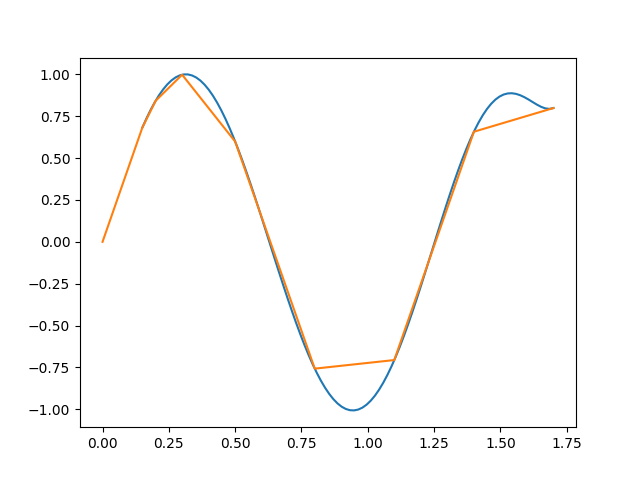
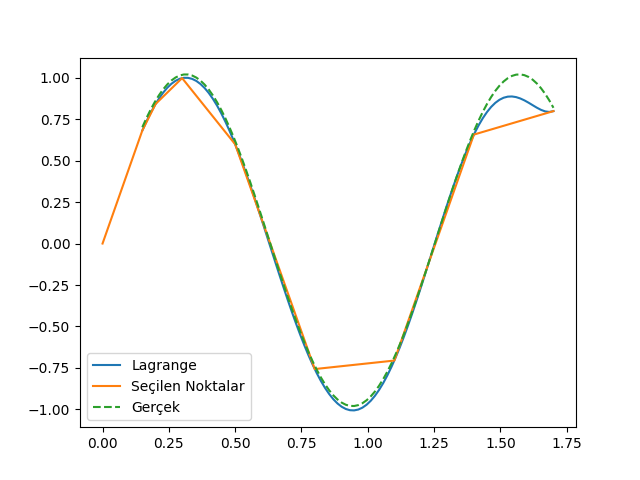
-

diff --git a/compscieng/compscieng_app20cfit1/compscieng_app20cfit1.html b/compscieng/compscieng_app20cfit1/compscieng_app20cfit1.html
@@ -175,7 +175,7 @@ edilebilir,</p>
 <p>$$
 P_m(x) =  \sum_{i=1}^{n} p_i (x) y_i
 $$</p>
-<p>Bir $x_j$ için ne elde ediyoruz?</p>
+<p>Bir $x_j$ için hesap ne diyor?</p>
 <p>$$
 P_m(x_j) = \sum _{i=1}^{n} p_i(x_j) y_i =  \sum _{i=1}^{n} \delta_{ij} y_i = y_j
 $$</p>
@@ -221,22 +221,26 @@ x[1] = 0.15; x[2] = 0.2; x[3] = 0.3; x[4] = 0.5;
 x[5] = 0.8 ; x[6] = 1.1; x[7] = 1.4; x[8] = 1.7
 for i in range(1,n+1): y[i] = np.sin(5*x[i])
 
-xx = []; yy = []
+xx = []; yy = []; real = []
 # x[1] ile x[8] arasinda esit aralikli x'ler yarat
 # daha fazla nokta olsun
 xis = np.linspace(x[1],x[-1],ni)
 for i in range(1,ni+1):
    xi = xis[i-1]
-   yi = Lagrange(x,y,n,xi) 
+   yi = Lagrange(x,y,n,xi)
    xx.append(xi)
    yy.append(yi)
-
+   real.append(np.sin(5*xi)+0.02)
 
 xx = np.array(xx)
 yy = np.array(yy)
+real = np.array(real)
 
 plt.plot(xx,yy)
 plt.plot(x,y)
+plt.plot(xx,real,'--')
+plt.legend(['Lagrange',u'Seçilen Noktalar','Gerçek'])
+
 plt.savefig('compscieng_app20cfit1_01.png')
 </code></pre>
 

diff --git a/compscieng/compscieng_app20cfit1/egri_uydurma_aradegerleme__interpolation___1.html b/compscieng/compscieng_app20cfit1/egri_uydurma_aradegerleme__interpolation___1.html
@@ -175,7 +175,7 @@ edilebilir,</p>
 <p>$$
 P_m(x) =  \sum_{i=1}^{n} p_i (x) y_i
 $$</p>
-<p>Bir $x_j$ için ne elde ediyoruz?</p>
+<p>Bir $x_j$ için hesap ne diyor?</p>
 <p>$$
 P_m(x_j) = \sum _{i=1}^{n} p_i(x_j) y_i =  \sum _{i=1}^{n} \delta_{ij} y_i = y_j
 $$</p>
@@ -221,22 +221,26 @@ x[1] = 0.15; x[2] = 0.2; x[3] = 0.3; x[4] = 0.5;
 x[5] = 0.8 ; x[6] = 1.1; x[7] = 1.4; x[8] = 1.7
 for i in range(1,n+1): y[i] = np.sin(5*x[i])
 
-xx = []; yy = []
+xx = []; yy = []; real = []
 # x[1] ile x[8] arasinda esit aralikli x'ler yarat
 # daha fazla nokta olsun
 xis = np.linspace(x[1],x[-1],ni)
 for i in range(1,ni+1):
    xi = xis[i-1]
-   yi = Lagrange(x,y,n,xi) 
+   yi = Lagrange(x,y,n,xi)
    xx.append(xi)
    yy.append(yi)
-
+   real.append(np.sin(5*xi)+0.02)
 
 xx = np.array(xx)
 yy = np.array(yy)
+real = np.array(real)
 
 plt.plot(xx,yy)
 plt.plot(x,y)
+plt.plot(xx,real,'--')
+plt.legend(['Lagrange',u'Seçilen Noktalar','Gerçek'])
+
 plt.savefig('compscieng_app20cfit1_01.png')
 </code></pre>
 

diff --git a/compscieng/compscieng_app20cfit1/compscieng_app20cfit1.tex b/compscieng/compscieng_app20cfit1/compscieng_app20cfit1.tex
@@ -193,7 +193,7 @@ $$
 P_m(x) =  \sum_{i=1}^{n} p_i (x) y_i
 $$
 
-Bir $x_j$ için ne elde ediyoruz?
+Bir $x_j$ için hesap ne diyor?
 
 $$
 P_m(x_j) = \sum _{i=1}^{n} p_i(x_j) y_i =  \sum _{i=1}^{n} \delta_{ij} y_i = y_j
@@ -250,22 +250,26 @@ x[1] = 0.15; x[2] = 0.2; x[3] = 0.3; x[4] = 0.5;
 x[5] = 0.8 ; x[6] = 1.1; x[7] = 1.4; x[8] = 1.7
 for i in range(1,n+1): y[i] = np.sin(5*x[i])
 
-xx = []; yy = []
+xx = []; yy = []; real = []
 # x[1] ile x[8] arasinda esit aralikli x'ler yarat
 # daha fazla nokta olsun
 xis = np.linspace(x[1],x[-1],ni)
 for i in range(1,ni+1):
    xi = xis[i-1]
-   yi = Lagrange(x,y,n,xi) 
+   yi = Lagrange(x,y,n,xi)
    xx.append(xi)
    yy.append(yi)
-
+   real.append(np.sin(5*xi)+0.02)
 
 xx = np.array(xx)
 yy = np.array(yy)
+real = np.array(real)
 
 plt.plot(xx,yy)
 plt.plot(x,y)
+plt.plot(xx,real,'--')
+plt.legend(['Lagrange',u'Seçilen Noktalar','Gerçek'])
+
 plt.savefig('compscieng_app20cfit1_01.png')
 \end{minted}
 
